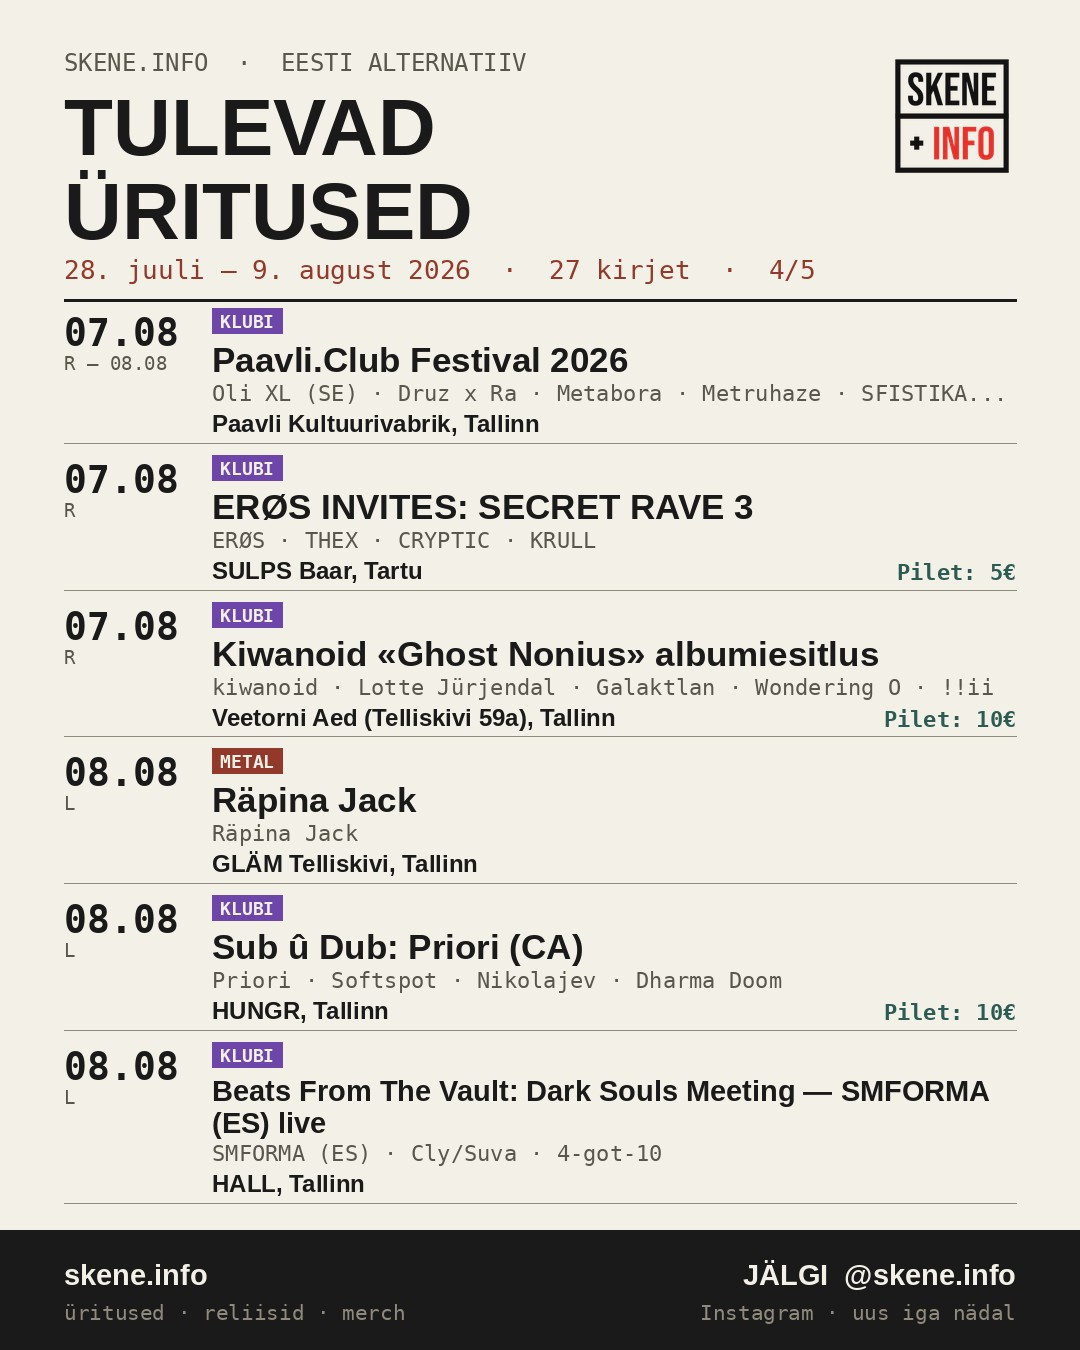
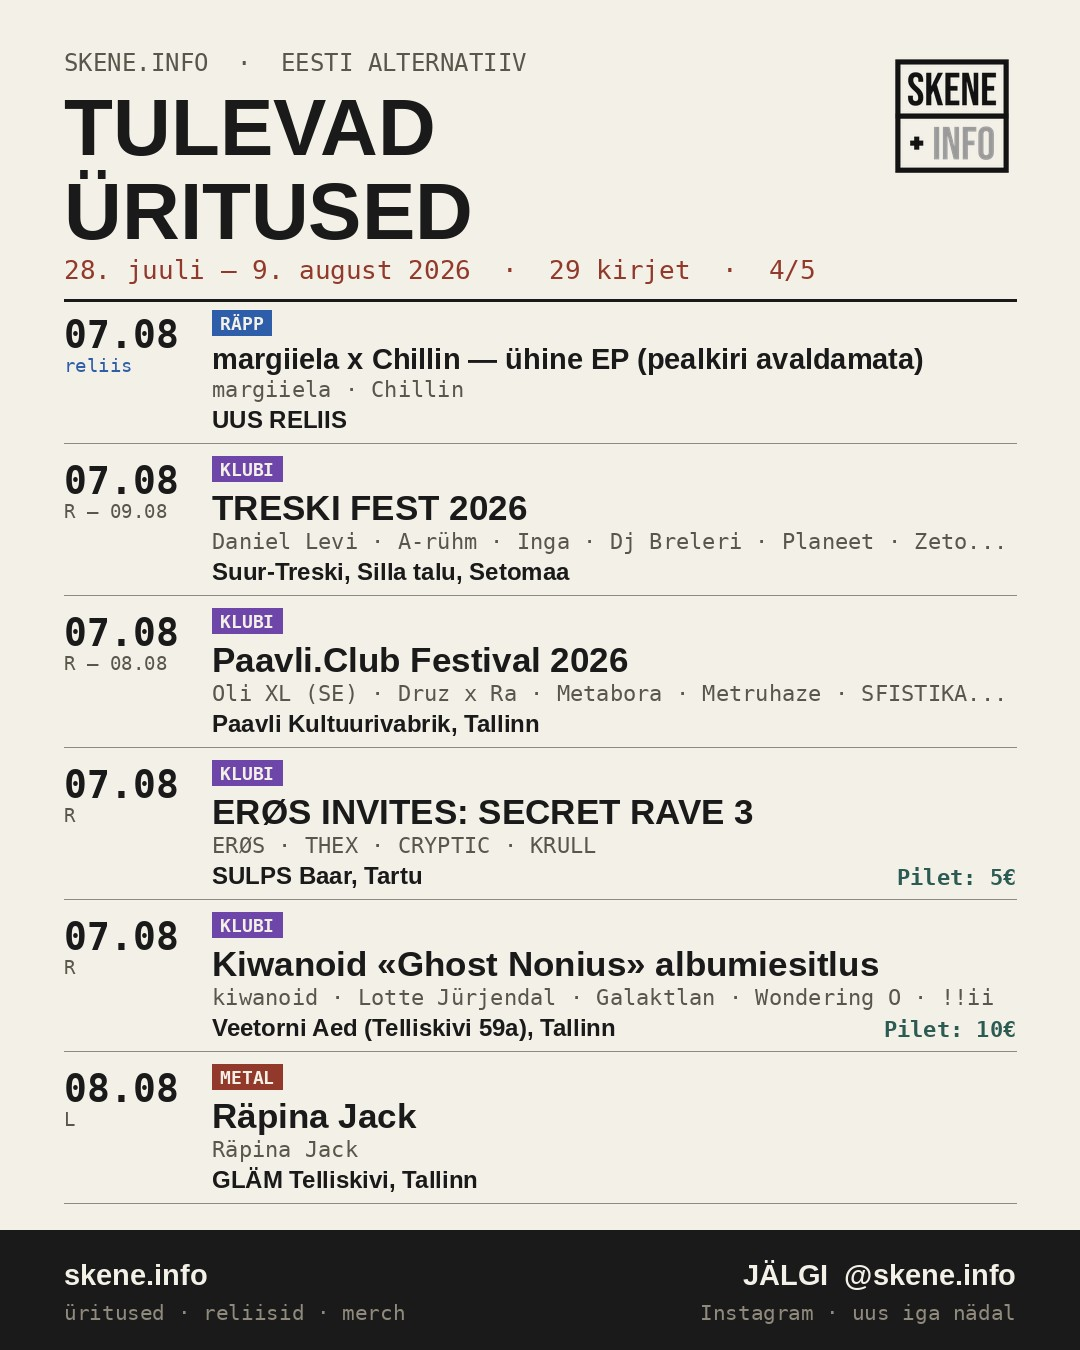
parandus: reliisid joudsid taas nadalapilti ja uudiskirja
BUG: make_weekly_image.py ja make_weekly_email.py filtreerisid molemad
`if e.get("c") in EESTI`, aga 27.07.2026 otsus eemaldada c/linn KOIGILT
reliisidelt tahendas, et ukski reliis ei labinud enam seda filtrit. Molemas
skriptis oli reliis-tuubi jaoks varv ja silt ("UUS RELIIS" / "NEW RELEASE")
juba olemas - need lihtsalt ei saanud kunagi kaivituda.

Parandus: common.py sai kaks jagatud abifunktsiooni - is_release(e) ja
in_scope(e) (= Eesti uritus VOI reliis/merch). Molemad skriptid kutsuvad nuud
in_scope(e), nii et filtrireegel elab UHES kohas. Pildil renderdub reliisi
asukoharida kujul "UUS RELIIS · <platvorm>", varem oleks jaanud tuhjaks.

Tulemus: nadalapilt 27 -> 29 kirjet, rap-uudiskiri 1 -> 3 kirjet.

UUS SKRIPT scripts/make_weekly_caption.py: genereerib nadal/latest.json SAMA
akna- ja skoobifiltriga nagu make_weekly_image.py ning kopeerib pildid
postitused/ -> nadal/. Varem tehti see samm sweepi promptis kasitsi eraldi
loogikaga, mistottu caption ja pilt said lahku minna - tapselt see juhtuski
reliisidega.

diff --git a/scripts/make_weekly_caption.py b/scripts/make_weekly_caption.py
@@ -1,0 +1,136 @@
+#!/usr/bin/env python3
+# -*- coding: utf-8 -*-
+"""Genereeri nadal/latest.json (Make.com -> Instagram karussell).
+
+Loeb SAMAD andmed ja kasutab SAMA akna- ning skoobifiltrit nagu
+make_weekly_image.py, nii et pildi sisu ja caption ei saa lahku minna.
+
+Enne 28.07.2026 tehti see samm sweepi promptis kasitsi -- ja lainegi lahku:
+reliisid kadusid pildilt (linnafilter, vt common.in_scope), aga caption
+kirjutati eraldi loogikaga. Nuud tuleb molema sisend uhest kohast.
+
+Kasutus (repo juurest, PARAST make_weekly_image.py-d):
+    python scripts/make_weekly_caption.py
+    python scripts/make_weekly_caption.py --repo . --date 2026-07-28
+
+Eeldab, et pildid on juba olemas kaustas postitused/ kujul
+nadal-<algus>.jpg, nadal-<algus>-2.jpg jne -- skript kopeerib need
+avalikku kausta nadal/ ja kirjutab nadal/latest.json.
+"""
+import argparse
+import datetime as dt
+import io
+import json
+import os
+import shutil
+import sys
+
+sys.path.insert(0, os.path.dirname(os.path.abspath(__file__)))
+from common import (CAT_ORDER, parse_d, this_and_next_week, in_window,
+                    today_local, in_scope, is_release)
+
+BASE_URL = "https://www.skene.info/nadal/"
+KUUD = ["jaanuar", "veebruar", "marts", "aprill", "mai", "juuni",
+        "juuli", "august", "september", "oktoober", "november", "detsember"]
+KUUD_ET = ["jaanuar", "veebruar", "märts", "aprill", "mai", "juuni",
+           "juuli", "august", "september", "oktoober", "november", "detsember"]
+HASHTAGS = ("#skeneinfo #eestialternatiiv #metal #punk #rock #rap #hiphop "
+            "#techno #house #klubi #kontsert #festival #tallinn #tartu")
+
+
+def load_entries(repo, ws, we):
+    srcs = [(os.path.join(repo, "data", "data.json"), "metal"),
+            (os.path.join(repo, "rap", "data", "data.json"), "rap"),
+            (os.path.join(repo, "klubi", "data", "data.json"), "klubi")]
+    out = []
+    for path, cat in srcs:
+        if not os.path.exists(path):
+            continue
+        dd = json.load(open(path, encoding="utf-8"))
+        for e in dd.get("entries", []):
+            if in_scope(e) and in_window(e, ws, we):
+                ee = dict(e)
+                ee["_cat"] = cat
+                out.append(ee)
+    out.sort(key=lambda e: (e.get("d", ""),
+                            CAT_ORDER.index(e.get("_cat", "metal")),
+                            e.get("t", "")))
+    return out
+
+
+def line_for(e):
+    d = dt.date.fromisoformat(e["d"])
+    dm = f"{d.day:02d}.{d.month:02d}"
+    if is_release(e):
+        silt = "UUS MERCH" if e.get("t") == "merch" else "UUS RELIIS"
+        return f"{dm} — {e['n']} · {silt}"
+    linn = e.get("linn") or ("" if e.get("c") == "mujal" else e.get("c", ""))
+    v = e.get("v", "")
+    if v and linn and linn.lower() not in v.lower():
+        koht = f"{v}, {linn}"
+    else:
+        koht = v or linn
+    return f"{dm} — {e['n']}" + (f" · {koht}" if koht else "")
+
+
+def collect_images(repo, ws):
+    """Kopeeri postitused/ pildid avalikku nadal/ kausta, tagasta URL-id."""
+    src_dir = os.path.join(repo, "postitused")
+    dst_dir = os.path.join(repo, "nadal")
+    os.makedirs(dst_dir, exist_ok=True)
+    urls = []
+    i = 1
+    while True:
+        name = f"nadal-{ws.isoformat()}.jpg" if i == 1 else f"nadal-{ws.isoformat()}-{i}.jpg"
+        src = os.path.join(src_dir, name)
+        if not os.path.exists(src):
+            break
+        shutil.copyfile(src, os.path.join(dst_dir, name))
+        urls.append(BASE_URL + name)
+        i += 1
+    return urls
+
+
+def main():
+    here = os.path.dirname(os.path.abspath(__file__))
+    ap = argparse.ArgumentParser()
+    ap.add_argument("--repo", default=os.path.dirname(here))
+    ap.add_argument("--date", default=None)
+    args = ap.parse_args()
+
+    ref = parse_d(args.date) if args.date else today_local()
+    ws, we = this_and_next_week(ref)
+
+    sel = load_entries(args.repo, ws, we)
+    if not sel:
+        print(f"Aken {ws}..{we}: 0 kirjet - latest.json jai puutumata.")
+        return
+
+    urls = collect_images(args.repo, ws)
+    if not urls:
+        print(f"HOIATUS: postitused/nadal-{ws.isoformat()}.jpg puudub - "
+              f"jooksuta enne make_weekly_image.py. latest.json jai puutumata.")
+        return
+
+    rng = (f"{ws.day}. {KUUD_ET[ws.month - 1]} – "
+           f"{we.day}. {KUUD_ET[we.month - 1]} {we.year}")
+    caption = ("TULEVAD ÜRITUSED · " + rng + "\n\n"
+               + "\n".join(line_for(e) for e in sel)
+               + "\n\nKõik üritused ja piletid → skene.info\n\n"
+               + HASHTAGS)
+
+    out = {"date": ws.isoformat(),
+           "range": rng,
+           "image_url": urls[0],       # tagasiuhilduvus (vana Make.com skeem)
+           "image_urls": urls,
+           "caption": caption}
+    path = os.path.join(args.repo, "nadal", "latest.json")
+    with io.open(path, "w", encoding="utf-8") as f:
+        json.dump(out, f, ensure_ascii=False, indent=2)
+        f.write("\n")
+    print(f"OK: {len(sel)} kirjet, {len(urls)} lehte; aken {ws}..{we}")
+    print(f"  {path}")
+
+
+if __name__ == "__main__":
+    main()

diff --git a/scripts/make_weekly_image.py b/scripts/make_weekly_image.py
@@ -32,7 +32,8 @@ except ImportError:
     sys.exit("Vajalik: pip install pillow")
 
 sys.path.insert(0, os.path.dirname(os.path.abspath(__file__)))
-from common import EESTI, CAT_ORDER, parse_d, event_span, this_and_next_week, in_window, today_local
+from common import (EESTI, CAT_ORDER, parse_d, event_span, this_and_next_week,
+                    in_window, today_local, in_scope, is_release)
 
 # ---- palett (index.html :root) ----
 PABER      = (0xF3, 0xF0, 0xE7)
@@ -247,8 +248,14 @@ def render_page(rows, ws, we, total_n, page_no, n_pages, logo_path, out_path,
             ty += fonts["bands"].size + 8
 
         venue = e.get("v", "")
-        linn = e.get("linn") or ("" if e.get("c") == "mujal" else e.get("c", ""))
-        loc = venue + (", " + linn if linn and linn.lower() not in venue.lower() else "")
+        if is_release(e):
+            # reliisil/merchil pole asukohta -- naita tuubisilti (+ platvormi, kui teada),
+            # muidu jaaks rida tuhjaks
+            silt = "UUS MERCH" if e.get("t") == "merch" else "UUS RELIIS"
+            loc = silt + (" · " + venue if venue else "")
+        else:
+            linn = e.get("linn") or ("" if e.get("c") == "mujal" else e.get("c", ""))
+            loc = venue + (", " + linn if linn and linn.lower() not in venue.lower() else "")
         pt = price_text(e)
         ptt = None
         pw = 0
@@ -342,7 +349,7 @@ def main():
             return
         dd = json.load(open(path, encoding="utf-8"))
         for e in dd.get("entries", []):
-            if e.get("c") in EESTI and in_window(e, ws, we):
+            if in_scope(e) and in_window(e, ws, we):
                 ee = dict(e); ee["_cat"] = cat; acc.append(ee)
     sel = []
     if args.data:

diff --git a/scripts/make_weekly_email.py b/scripts/make_weekly_email.py
@@ -19,7 +19,8 @@ import argparse, json, os, sys, html
 import urllib.request, urllib.error
 
 sys.path.insert(0, os.path.dirname(os.path.abspath(__file__)))
-from common import EESTI, CAT_ORDER, parse_d, event_span, this_and_next_week, in_window, today_local
+from common import (EESTI, CAT_ORDER, parse_d, event_span, this_and_next_week,
+                    in_window, today_local, in_scope, is_release)
 
 # ---- palett (index.html :root) ----
 PABER="#F3F0E7"; TINT="#1A1A1A"; HALL="#5A564C"; JOON="#8F8A7C"
@@ -284,7 +285,7 @@ def load_sources(repo, ws, we):
         if not os.path.exists(path): continue
         data=json.load(open(path, encoding="utf-8"))
         for e in data.get("entries",[]):
-            if e.get("c") in EESTI and in_window(e,ws,we):
+            if in_scope(e) and in_window(e,ws,we):
                 ee=dict(e); ee["_cat"]=cat; out.append(ee)
     return out
 
@@ -327,7 +328,7 @@ def main():
     elif args.data:
         data=json.load(open(args.data, encoding="utf-8"))
         all_ev=[dict(e, _cat="metal") for e in data.get("entries",[])
-                if e.get("c") in EESTI and in_window(e,ws,we)]
+                if in_scope(e) and in_window(e,ws,we)]
     else:
         raise SystemExit("Anna --repo (soovitatav) voi --data")
 

diff --git a/scripts/common.py b/scripts/common.py
@@ -167,4 +167,24 @@ def in_window(e, ws, we):
 # identsed make_weekly_email.py-s ja make_weekly_image.py-s.
 EESTI = {"Tallinn", "Tartu", "mujal"}
 CAT_ORDER = ["metal", "rap", "klubi"]
+
+
+def is_release(e):
+    """Kas kirje on reliis voi merch.
+
+    NB reliisidel ja merchil EI OLE asukohta (Silveri otsus 27.07.2026 --
+    `c`/`linn` eemaldati koigilt `t:"reliis"` kirjetelt), seega linnafilter
+    neile ei rakendu ega tohigi rakenduda.
+    """
+    return bool(e.get("rel")) or e.get("t") in ("reliis", "merch")
+
+
+def in_scope(e):
+    """Kas kirje kuulub nadalapilti / uudiskirja.
+
+    Eesti uritus (Tallinn/Tartu/mujal) VOI reliis/merch. Ilma reliisi-erandita
+    kaob iga reliis vaikselt valja, sest neil pole `c` valja -- see oli viga
+    28.07.2026-ni (leitud sweepis, vt HANDOVER sekts 3).
+    """
+    return e.get("c") in EESTI or is_release(e)
 # EOF
